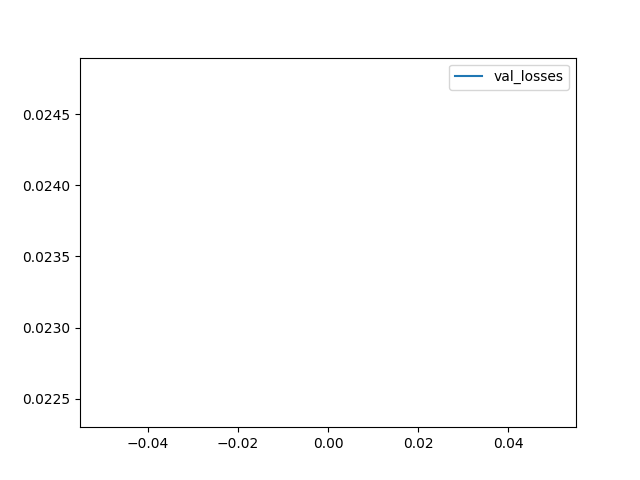
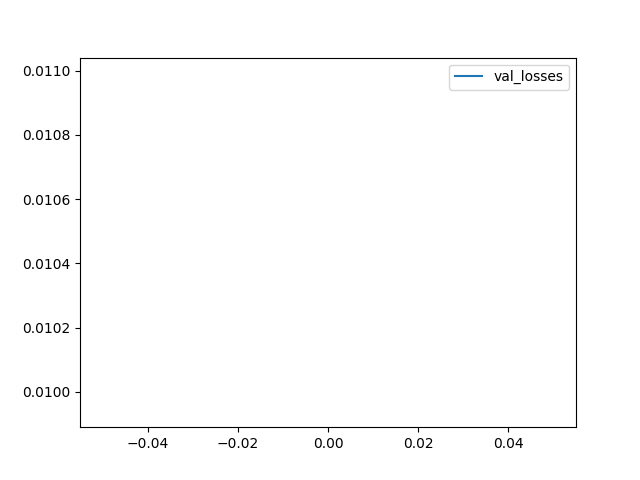
final model

diff --git a/Trainer.py b/Trainer.py
@@ -49,7 +49,7 @@ class Trainer:
 
         self.optimizer = torch.optim.Adam(self.pre.parameters(), lr=config["lr"])
 
-        self.criterion = nn.MSELoss()
+        self.criterion = nn.CrossEntropyLoss()
 
         self.clip_value = config["clip_value"]
 
@@ -63,6 +63,7 @@ class Trainer:
 
         total_loss = 0
         total_correct = 0
+        total_predictions = 0
 
         for i, (data, max_len, label) in enumerate(tqdm(self.val_loader)):
             data = data.to(self.config["device"])
@@ -90,11 +91,12 @@ class Trainer:
                             .sum()
                             .item()
                         )
+                        total_predictions += len(current_label)
             
         val_losses.append(total_loss / len(self.val_loader))
-        val_accs.append(total_correct / len(self.val_loader.dataset))
+        val_accs.append(total_correct / total_predictions)
 
-        print(f"Validation accuracy: {total_correct / len(self.val_loader.dataset)}")
+        print(f"Validation accuracy: {total_correct / total_predictions}")
         print(f"Validation loss: {total_loss / len(self.val_loader)}")
 
     def train(self, train_losses: list):
@@ -131,7 +133,6 @@ class Trainer:
                     self.optimizer.step()
 
                     total_loss += loss.item()
-
 
         train_losses.append(total_loss / len(self.train_loader))
         

diff --git a/CNN.py b/CNN.py
@@ -19,31 +19,28 @@ class CNN(nn.Module):
         super().__init__()
         # convoluiton layer
         self.conv = nn.Sequential(
-            # (B, 3, 19, 19) -> (B, 64, 19, 19)
+            # # (B, 3, 19, 19) -> (B, 9, 19, 19)
             nn.Conv2d(
                 3,
-                64,
+                9,
                 kernel_size=3,
                 stride=1,
                 padding=1,
             ),
-            nn.BatchNorm2d(64),
             nn.SiLU(),
-            # (B, 64, 19, 19) -> (B, 128, 19, 19)
+            # (B, 9, 19, 19) -> (B, 32, 19, 19)
             nn.Conv2d(
-                64,
-                128,
+                9,
+                32,
                 kernel_size=3,
                 stride=1,
                 padding=1,
             ),
-            nn.BatchNorm2d(128),
             nn.SiLU(),
         )
 
         self.transform = nn.Sequential(
-            nn.Linear(128 * 19 * 19, output_dim),
-            nn.BatchNorm1d(output_dim),
+            nn.Linear(32 * 19 * 19, output_dim),
             nn.SiLU(),
             nn.Dropout(dropout),
         )

diff --git a/main.py b/main.py
@@ -30,11 +30,11 @@ set_seed(seed)
 goDataset = GoDataset("data/train/dan_train.csv")
 
 config = {
-    "input_dim": 19 * 19 * 3,
+    "input_dim": 512,
     "output_dim": 19 * 19,
-    "num_heads": 3,
-    "ffn_dim": 128,
-    "num_layers": 1,
+    "num_heads": 4,
+    "ffn_dim": 512,
+    "num_layers": 3,
     "depthwise_conv_kernel_size": 3,
     "dropout": 0.1,
     "use_group_norm": False,
@@ -44,10 +44,10 @@ config = {
     "dis_path": "data/models/dis",
     "device": torch.device("cuda" if torch.cuda.is_available() else "cpu"),
     # "device": torch.device("cpu"),
-    "batch_size": 128,
-    "clip_value": 1,
+    "batch_size": 20,
+    "clip_value": 5,
     "data_len": goDataset.get_longest_game(),
-    "epochs": 2,
+    "epochs": 3,
     "early_stop": 3,
     "selected": 0
 }
